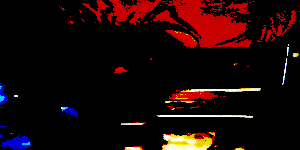
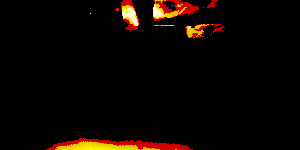
mask 7 auto updates when image is saved

diff --git a/ShaderMapper.html b/ShaderMapper.html
@@ -189,7 +189,39 @@ void main()	{
 		<script>
 			initGlobalVars();
 
+			function watchForMask7ImageUpdates(){
+				var xmlhttp=new XMLHttpRequest();
+				xmlhttp.open("GET", "php/read.php?fn=globalPresets/imageMaskNeedsUpdate.txt", true);
+				xmlhttp.send();
+				xmlhttp.onload = function(e){
+					if(xmlhttp.response.indexOf("true")!=-1){
+						if(globalController.MaskA==7){
+							uniforms1.maskTexture={ value: new THREE.TextureLoader().load( 'masks/mask7.jpg' ) };
+						}
+						if(globalController.MaskB==7){
+							uniforms2.maskTexture={ value: new THREE.TextureLoader().load( 'masks/mask7.jpg' ) };
+						}
+						mask7UpdateNumber=mask7UpdateNumber+1;
+						resetImageMaskNeedsUpdate();
+					}
+					setTimeout(function(){
+						watchForMask7ImageUpdates();
+					},10000);
+				}
+			}
+
+			function resetImageMaskNeedsUpdate(){
+				var requestBody="false";
+				var xmlhttp=new XMLHttpRequest();
+				xmlhttp.open("POST", "php/write.php?fn=globalPresets/imageMaskNeedsUpdate.txt", true);
+				xmlhttp.send(requestBody);
+				xmlhttp.onload = function(e){
+					console.log("Reset imageMaskNeedsUpdate")
+				}
+			}
+
 			function initGlobalVars(){
+				mask7UpdateNumber=0;
 				haveChangedLocalSettingsInControllerMode=true;
 				lastObjectVerticeData="";
 				maskControllerScalingFactor=1.5;
@@ -296,6 +328,7 @@ void main()	{
 				highlightSelectedVertice();
 				highlightSelectedMaskHandle();
 				dataTex = new THREE.DataTexture(new Uint8Array(256 * 256 * 3), 256, 256);
+				setTimeout(function(){watchForMask7ImageUpdates();},1000);
 				// setTimeout(function(){document.getElementById('maskCanvas').style.transform="scale(-1,1)"; changeMask(3); },4000);
 			}
 			

diff --git a/editors/maskEditor.html b/editors/maskEditor.html
@@ -65,6 +65,26 @@
 				getVideo("init",0);
 			}
 
+			function resetImageMaskIconNeedsUpdate(){
+				var requestBody="true";
+				var xmlhttp=new XMLHttpRequest();
+				xmlhttp.open("POST", "../php/write.php?fn=globalPresets/imageMaskIconNeedsUpdate.txt", true);
+				xmlhttp.send(requestBody);
+				xmlhttp.onload = function(e){
+					console.log("Set imageMaskNeedsUpdate")
+				}
+			}
+
+			function resetImageMaskNeedsUpdate(){
+				var requestBody="true";
+				var xmlhttp=new XMLHttpRequest();
+				xmlhttp.open("POST", "../php/write.php?fn=globalPresets/imageMaskNeedsUpdate.txt", true);
+				xmlhttp.send(requestBody);
+				xmlhttp.onload = function(e){
+					console.log("Set imageMaskNeedsUpdate")
+				}
+			}
+
 			function drawCanvasTestData(){
 				var canvas = document.getElementById('mainCanvas');
 				var context = canvas.getContext('2d');
@@ -95,7 +115,10 @@
 				var xmlhttp=new XMLHttpRequest();
 				xmlhttp.open("POST", "../php/writeBase64.php?fn=controller/maskIcons/mask7.jpg", true);
 				xmlhttp.send(requestBody);
-				xmlhttp.onload = function(e){console.log(xmlhttp.response.status)}
+				xmlhttp.onload = function(e){
+					console.log(xmlhttp.response.status);
+					resetImageMaskIconNeedsUpdate();
+				}
 			}
 
 			function saveMaskImage(){
@@ -104,7 +127,10 @@
 				var xmlhttp=new XMLHttpRequest();
 				xmlhttp.open("POST", "../php/writeBase64.php?fn=masks/mask7.jpg", true);
 				xmlhttp.send(requestBody);
-				xmlhttp.onload = function(e){console.log(xmlhttp.response.status)}
+				xmlhttp.onload = function(e){
+					console.log(xmlhttp.response.status);
+					resetImageMaskNeedsUpdate();
+				}
 			}
 		  
 			function getVideo(action,camNum) {

diff --git a/controller/index.html b/controller/index.html
@@ -976,7 +976,35 @@
 
 			initGlobalVars();
 			
+			function watchForMask7ImageUpdates(){
+				var xmlhttp=new XMLHttpRequest();
+				xmlhttp.open("GET", "../php/read.php?fn=globalPresets/imageMaskIconNeedsUpdate.txt", true);
+				xmlhttp.send();
+				xmlhttp.onload = function(e){
+					if(xmlhttp.response.indexOf("true")!=-1){
+						document.getElementById("MaskItem7_DeckA").style.backgroundImage='url("maskIcons/mask7.jpg?v='+mask7UpdateNumber+'")';
+						document.getElementById("MaskItem7_DeckB").style.backgroundImage='url("maskIcons/mask7.jpg?v='+mask7UpdateNumber+'")';
+						mask7UpdateNumber=mask7UpdateNumber+1;
+						resetImageMaskIconNeedsUpdate();
+					}
+					setTimeout(function(){
+						watchForMask7ImageUpdates();
+					},10000);
+				}
+			}
+
+			function resetImageMaskIconNeedsUpdate(){
+				var requestBody="false";
+				var xmlhttp=new XMLHttpRequest();
+				xmlhttp.open("POST", "../php/write.php?fn=globalPresets/imageMaskIconNeedsUpdate.txt", true);
+				xmlhttp.send(requestBody);
+				xmlhttp.onload = function(e){
+					console.log("Reset imageMaskNeedsUpdate")
+				}
+			}
+
 			function initGlobalVars(){
+				mask7UpdateNumber=0;
 				lastSaveStateRequestBody="";
 				maskControllerScalingFactor=1.5;
 				haveDrawnMaskHandles=false;
@@ -1077,6 +1105,7 @@
 				highlightSelectedMaskHandle();
 				forceInitControllerMode();
 				getCurrentFMScene();
+				setTimeout(function(){watchForMask7ImageUpdates();},1000);
 			}
 			
 			function drawMaskHandles(){
